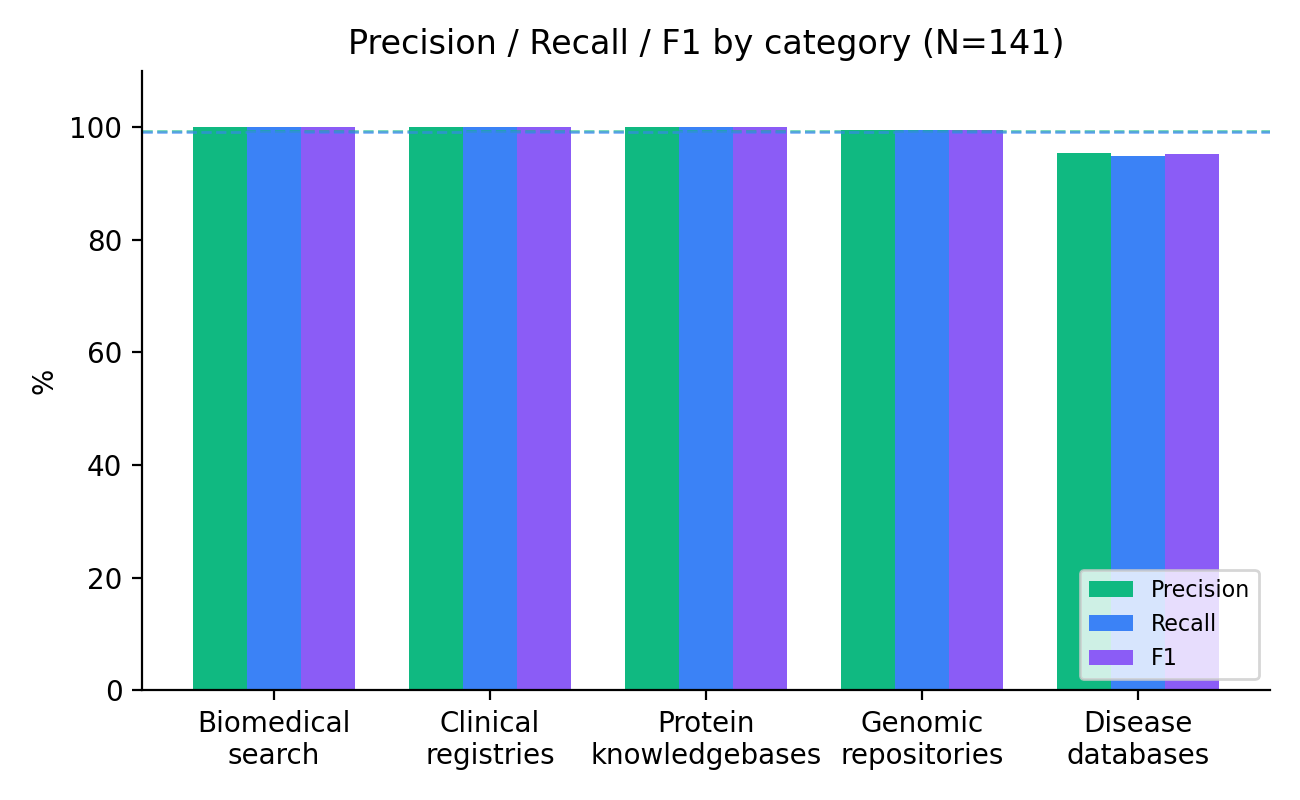
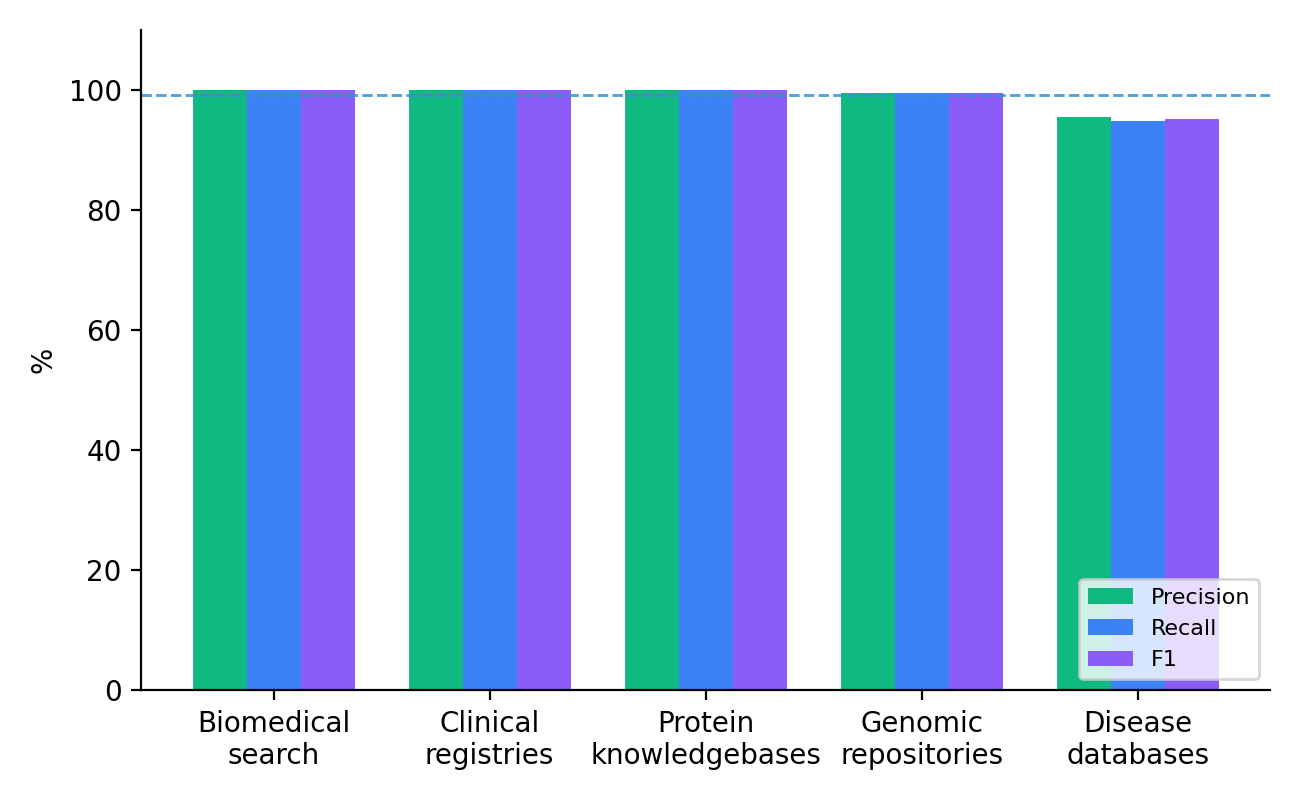
Remove embedded titles from generated figures (Springer Nature compliance)
Springer Nature's figure guidelines prohibit titles/captions embedded in
the illustration itself (captions belong in the LaTeX source only). Removed
ax.set_title()/fig.suptitle() calls from generate_figures.py (3 benchmark
charts) and generate_charts.py (7 seeded-corpus charts actually used in the
paper), keeping the (a)-(f) panel letters in the composite figure since
Springer's own convention requires exactly that labeling for multi-panel
figures. Regenerated the 3 benchmark PNGs to match.

diff --git a/generate_charts.py b/generate_charts.py
@@ -163,7 +163,6 @@ def fig_status_and_failures():
         t.set_fontsize(9)
     ax1.text(0, 0, f"{r['success_rate_pct']}%\nsuccess", ha="center", va="center",
              fontsize=12, fontweight="bold", color="#111827")
-    ax1.set_title("Run Status Distribution", pad=12)
 
     # ─ Failure categories ─
     fc  = r["failure_categories"]
@@ -175,7 +174,6 @@ def fig_status_and_failures():
         ax2.text(bar.get_width() + 1.5, bar.get_y() + bar.get_height()/2,
                  str(val), va="center", fontsize=9, color="#374151")
     ax2.set_xlabel("Number of failed runs")
-    ax2.set_title("Failure Category Breakdown")
     ax2.set_xlim(0, max(fc_sorted.values()) * 1.18)
 
     fig.tight_layout(w_pad=3)
@@ -202,7 +200,6 @@ def fig_wrapper_config():
     for x, v in enumerate(modes.values()):
         ax1.text(x, v + 0.6, str(v), ha="center", fontsize=10, fontweight="bold")
     ax1.set_ylabel("Number of wrappers")
-    ax1.set_title("Extraction Mode")
     ax1.set_ylim(0, max(modes.values()) * 1.2)
 
     # Pagination
@@ -216,7 +213,6 @@ def fig_wrapper_config():
     for x, k in enumerate(pag_order):
         ax2.text(x, pag_counts[k] + 0.4, str(pag_counts[k]), ha="center", fontsize=9, fontweight="bold")
     ax2.set_ylabel("Number of wrappers")
-    ax2.set_title("Pagination Strategy")
     ax2.set_ylim(0, max(pag_counts.values()) * 1.2)
 
     # Columns per wrapper histogram
@@ -228,7 +224,6 @@ def fig_wrapper_config():
                 label=f"Mean = {np.mean(col_counts):.1f}")
     ax3.set_xlabel("Columns per wrapper")
     ax3.set_ylabel("Number of wrappers")
-    ax3.set_title("Column Count Distribution")
     ax3.legend(fontsize=8)
     ax3.set_xticks(range(1, max(col_counts)+1))
 
@@ -265,7 +260,6 @@ def fig_domain_success():
     overall_sr = overview["runs"]["success_rate_pct"]
     ax.axvline(overall_sr, color=PALETTE["red"], linestyle="--", linewidth=1.5, label=f"Overall avg ({overall_sr}%)")
     ax.set_xlabel("Success rate (%)")
-    ax.set_title("Domain-Level Extraction Success Rate")
     ax.set_xlim(0, 120)
     ax.legend(fontsize=9)
 
@@ -299,7 +293,6 @@ def fig_row_distribution():
     ax1.axvline(rows_c.median(), color=PALETTE["orange"], linestyle=":",  linewidth=1.5, label=f"Median {rows_c.median():.0f}")
     ax1.set_xlabel("Rows extracted per run")
     ax1.set_ylabel("Number of runs")
-    ax1.set_title("Row Count Distribution\n(completed runs)")
     ax1.legend(fontsize=8.5)
 
     # Box plot by mode
@@ -318,7 +311,6 @@ def fig_row_distribution():
     bp["boxes"][1].set_facecolor(PALETTE["indigo"])
     n_a = (mode_rows["Mode"]=="List (A)").sum()
     n_b = (mode_rows["Mode"]=="Single (B)").sum()
-    ax2.set_title("Row Count by Extraction Mode\n(completed runs)")
     ax2.set_ylabel("Rows extracted")
     ax2.text(1, ax2.get_ylim()[1]*0.95, f"n={n_a}", ha="center", fontsize=8.5, color=PALETTE["blue"])
     ax2.text(2, ax2.get_ylim()[1]*0.95, f"n={n_b}", ha="center", fontsize=8.5, color=PALETTE["indigo"])
@@ -399,7 +391,6 @@ def fig_pagination_success():
     ax.axhline(overall_sr, color=PALETTE["red"], linestyle="--", linewidth=1.5, label="Overall avg")
     ax.set_ylabel("Success rate (%)")
     ax.set_ylim(0, 110)
-    ax.set_title("Extraction Success Rate by Pagination Strategy")
     ax.legend(fontsize=9)
 
     fig.tight_layout()
@@ -431,7 +422,6 @@ def fig_wrapper_heatmap():
     ax.axvline(75.7, color="#374151", linestyle="--", linewidth=1, label="Overall avg")
     ax.set_xlabel("Success rate (%)")
     ax.set_xlim(0, 125)
-    ax.set_title("Per-Wrapper Success Rate (top 40 by run count)", pad=10)
     ax.legend(fontsize=8.5)
 
     # Colorbar
@@ -661,7 +651,6 @@ def fig_composite():
     ax_f.set_ylim(0, 110)
     ax_f.set_title("(f) Pagination vs Success", fontweight="bold")
 
-    fig.suptitle("CroW — Evaluation Summary", fontsize=14, fontweight="bold", y=1.01)
     fig.savefig(os.path.join(OUT, "fig12_composite.pdf"))
     fig.savefig(os.path.join(OUT, "fig12_composite.png"))
     plt.close(fig)

diff --git a/benchmark/generate_figures.py b/benchmark/generate_figures.py
@@ -40,7 +40,6 @@ for b, v in zip(bars, vals):
 ax.tick_params(axis="x", labelsize=9)
 ax.set_ylabel("Number of resources")
 ax.set_ylim(0, max(vals) * 1.15)
-ax.set_title(f"Benchmark corpus by category (N={len(rows)})")
 plt.tight_layout()
 plt.savefig(os.path.join(BASE, "fig_category_distribution.png"), dpi=200)
 plt.close()
@@ -69,7 +68,6 @@ ax.set_xticks(x)
 ax.set_xticklabels([CAT_LABELS[c] for c in cats2])
 ax.set_ylabel("%")
 ax.set_ylim(0, 110)
-ax.set_title(f"Precision / Recall / F1 by category (N={len(rows)})")
 ax.legend(loc="lower right", fontsize=8)
 plt.tight_layout()
 plt.savefig(os.path.join(BASE, "fig_precision_recall.png"), dpi=200)
@@ -86,7 +84,6 @@ for c in cats2:
     ax.scatter(xr, yr, label=CAT_LABELS[c].replace("\n", " "), color=cat_colors.get(c, "#666"), s=40, alpha=0.8)
 ax.set_xlabel("Records extracted")
 ax.set_ylabel("Runtime (s)")
-ax.set_title(f"Runtime vs. records extracted (N={len(rows)})")
 ax.legend(fontsize=7)
 plt.tight_layout()
 plt.savefig(os.path.join(BASE, "fig_runtime_vs_records.png"), dpi=200)
